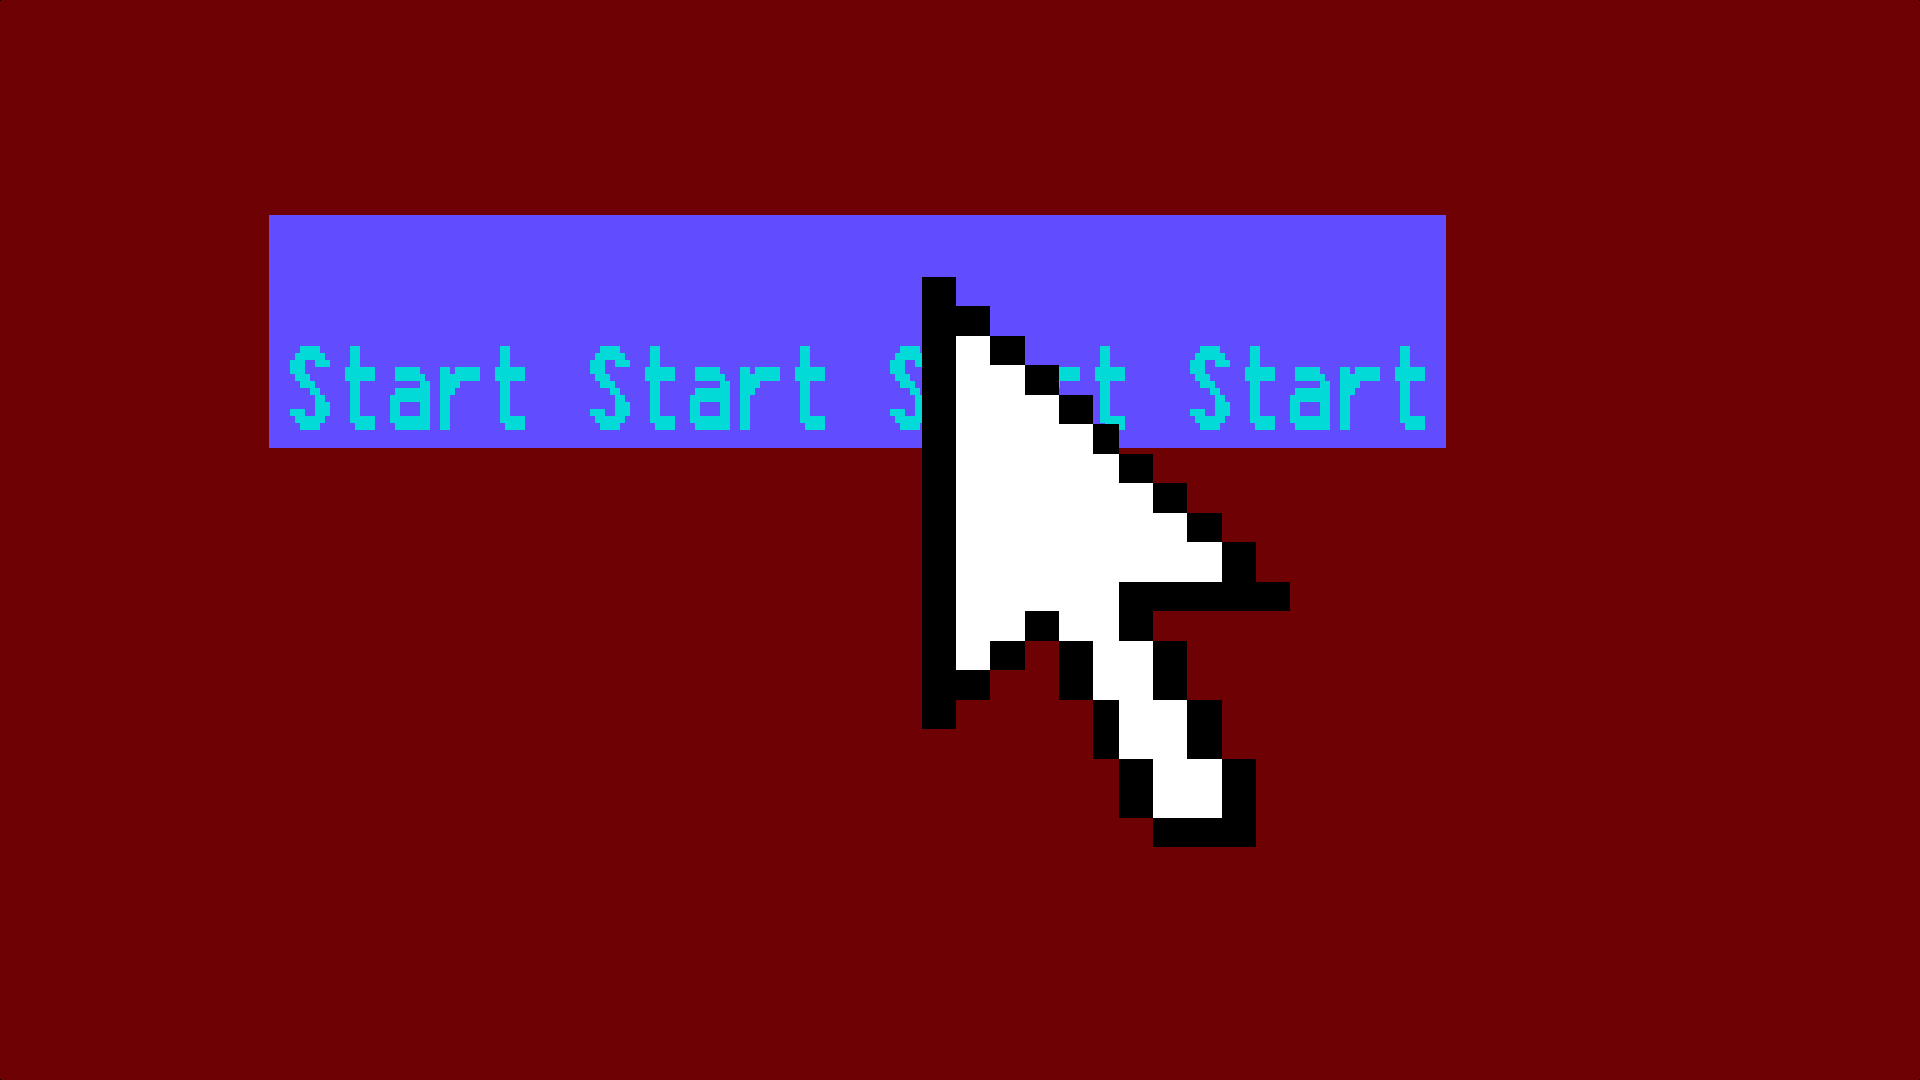
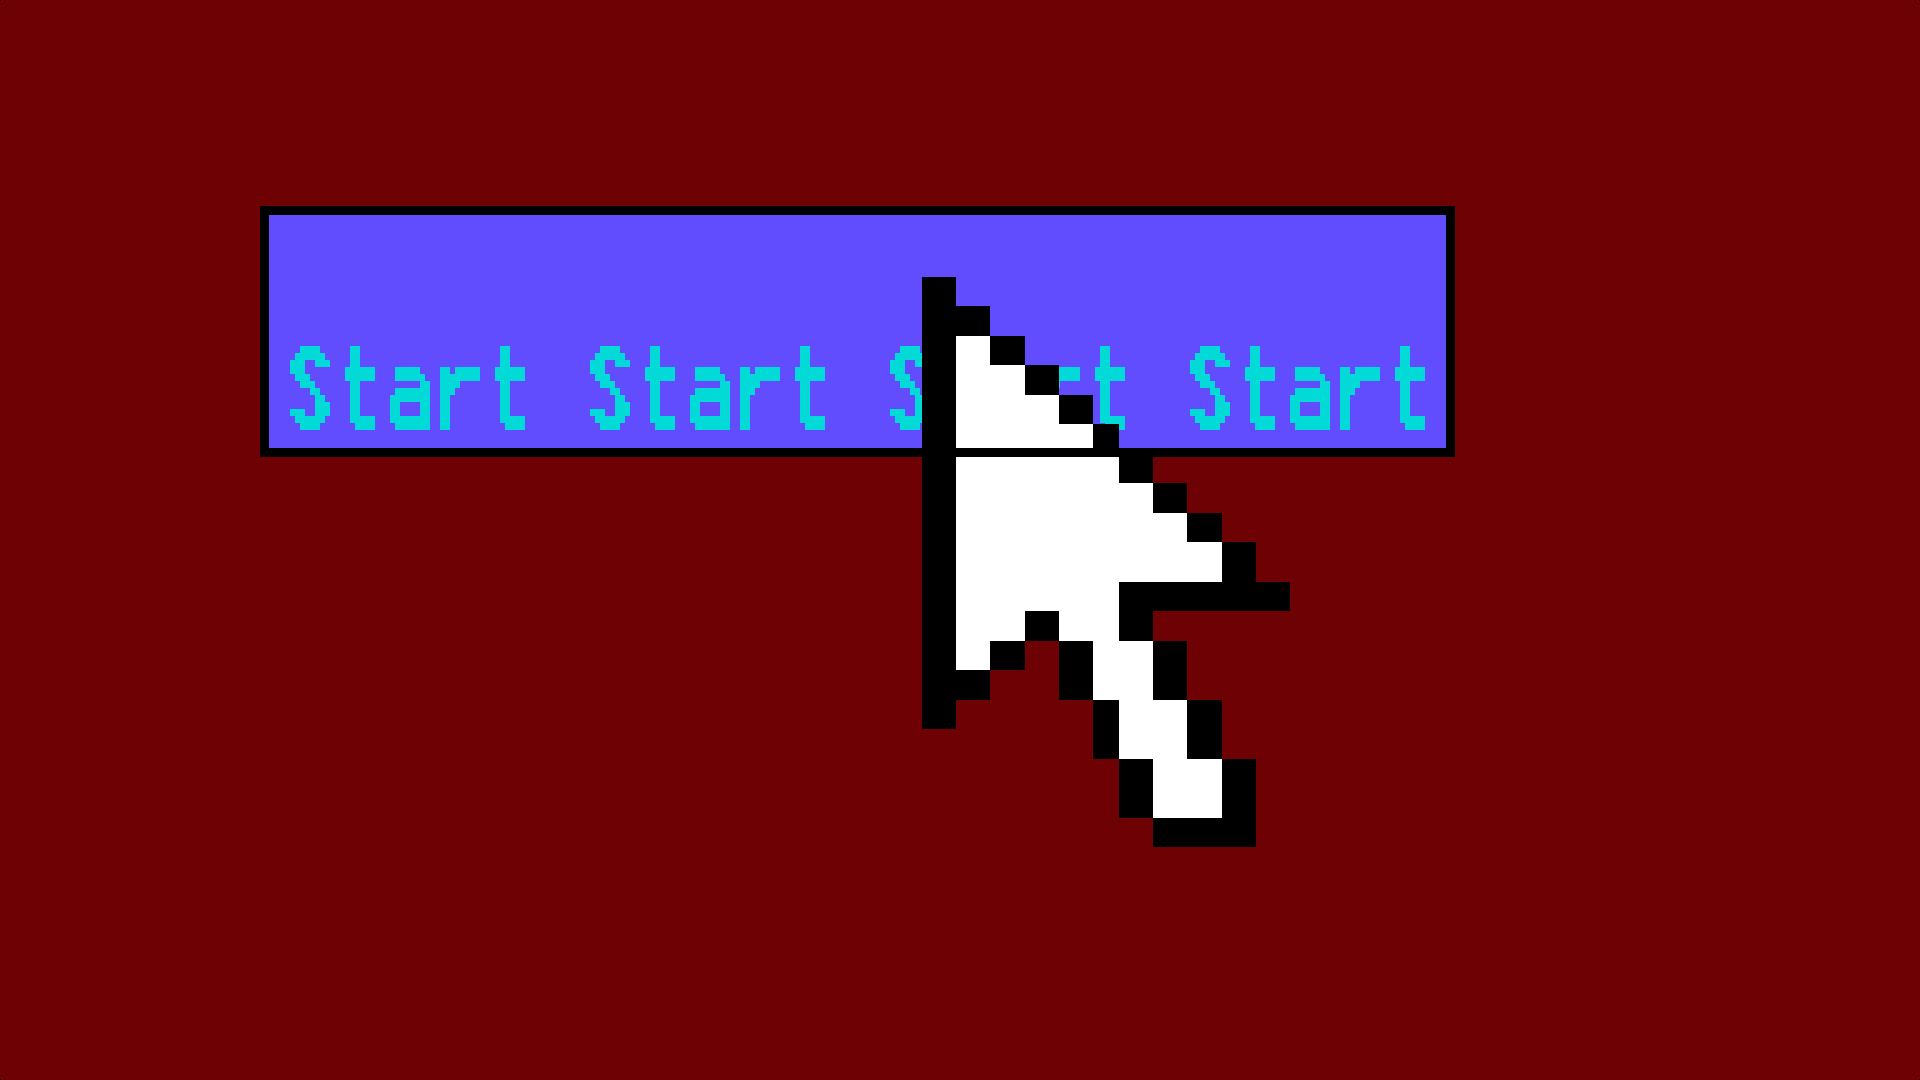
fixed restart button and change start screen

Changed region(s): [[0.125, 0.1833, 0.7812, 0.4278]]

diff --git a/js/game.js b/js/game.js
@@ -78,7 +78,7 @@ window.onload = () => {
 				game.startGame();
 			}
 		}else if(game.state === 'end'){
-			if(mouse.x > 0 && mouse.x < 50 && mouse.y > 0 && mouse.y < 50){
+			if(mouse.x >= 0 && mouse.x < 50 && mouse.y >= 0 && mouse.y < 50){
 				game.startGame();
 			}
 		}
